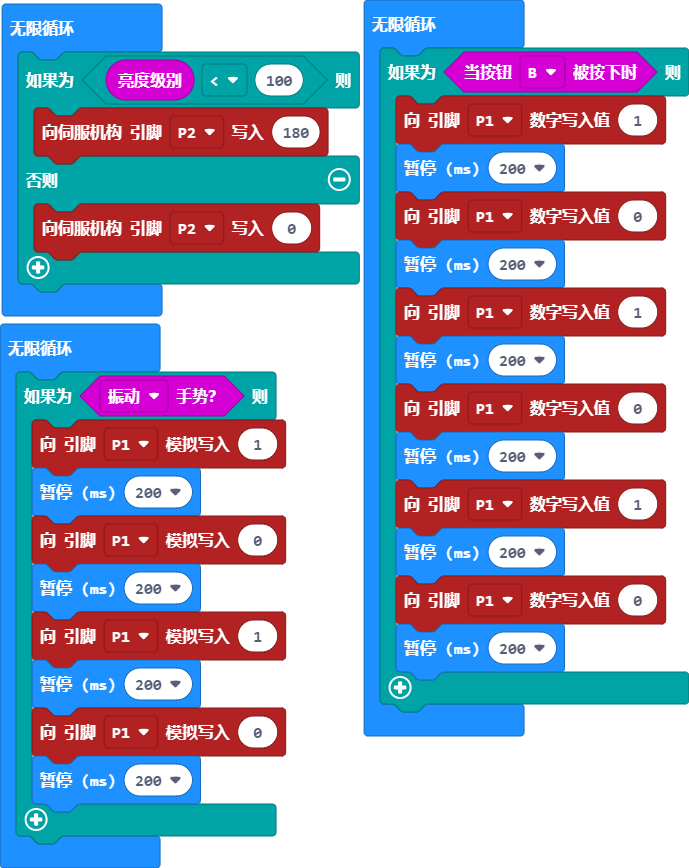
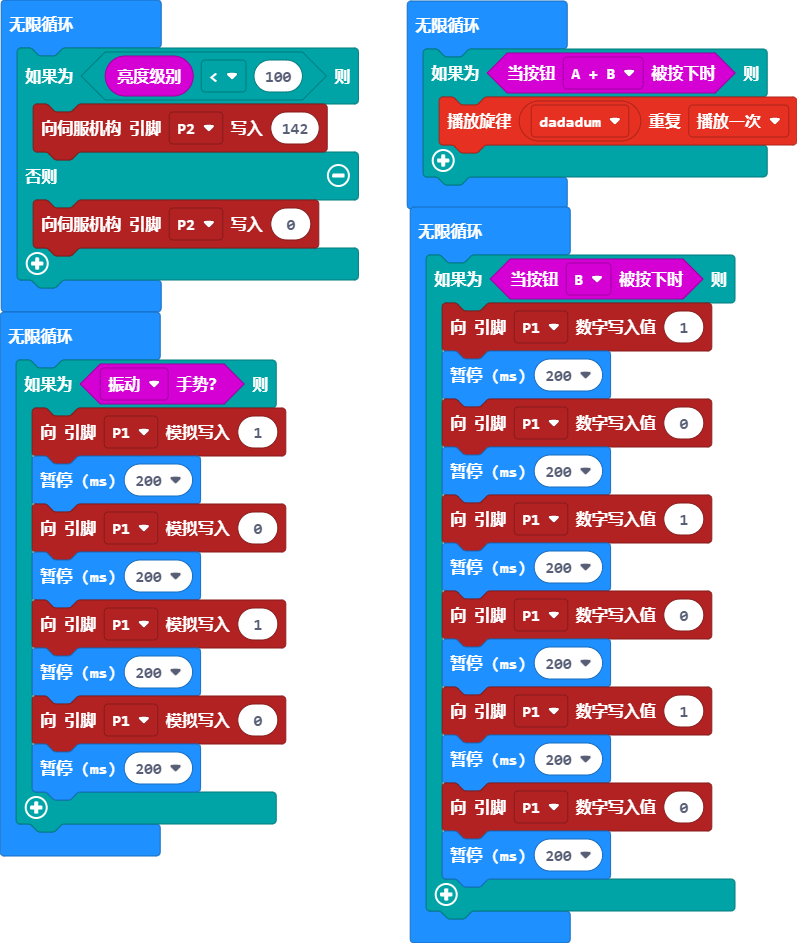
更新 main.blocks, main.ts

diff --git a/main.ts b/main.ts
@@ -1,8 +1,13 @@
 basic.forever(function () {
     if (input.lightLevel() < 100) {
-        pins.servoWritePin(AnalogPin.P2, 180)
+        pins.servoWritePin(AnalogPin.P2, 142)
     } else {
         pins.servoWritePin(AnalogPin.P2, 0)
+    }
+})
+basic.forever(function () {
+    if (input.buttonIsPressed(Button.AB)) {
+        music.startMelody(music.builtInMelody(Melodies.Dadadadum), MelodyOptions.Once)
     }
 })
 basic.forever(function () {
